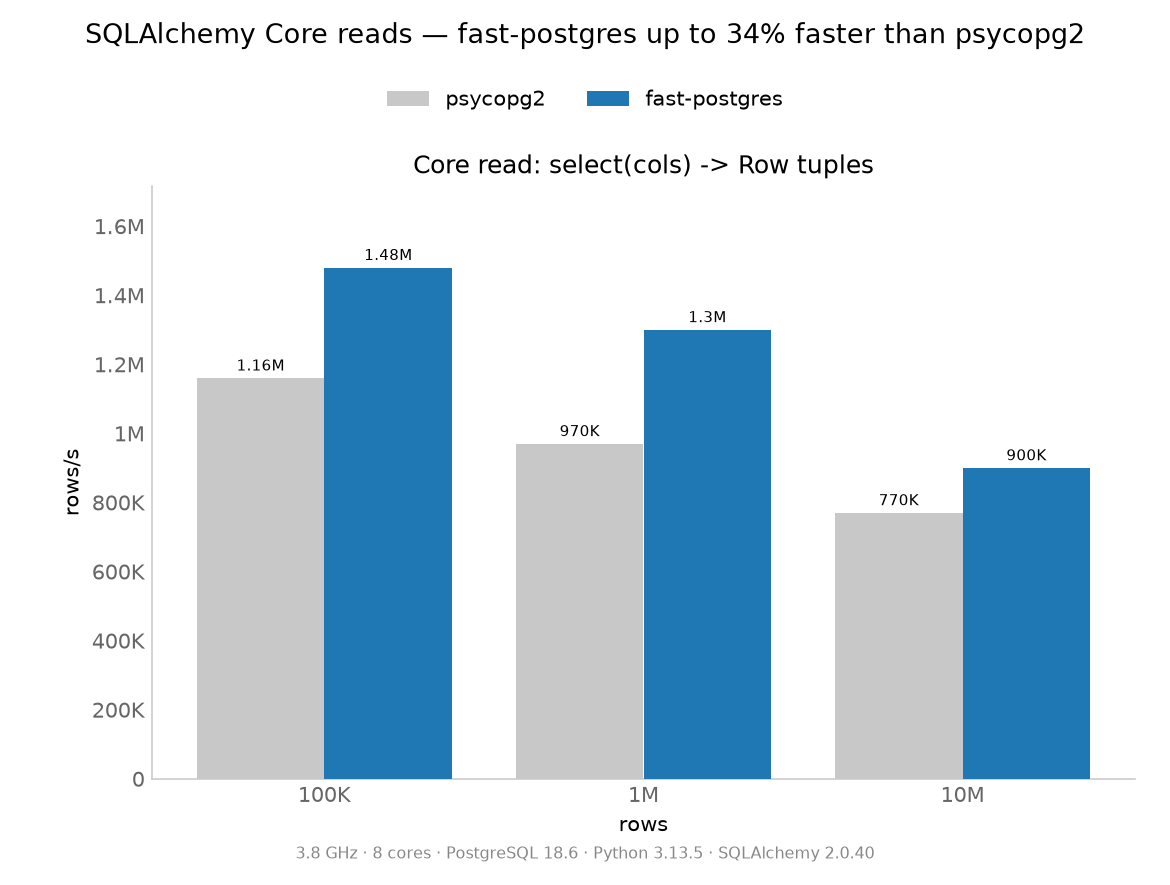
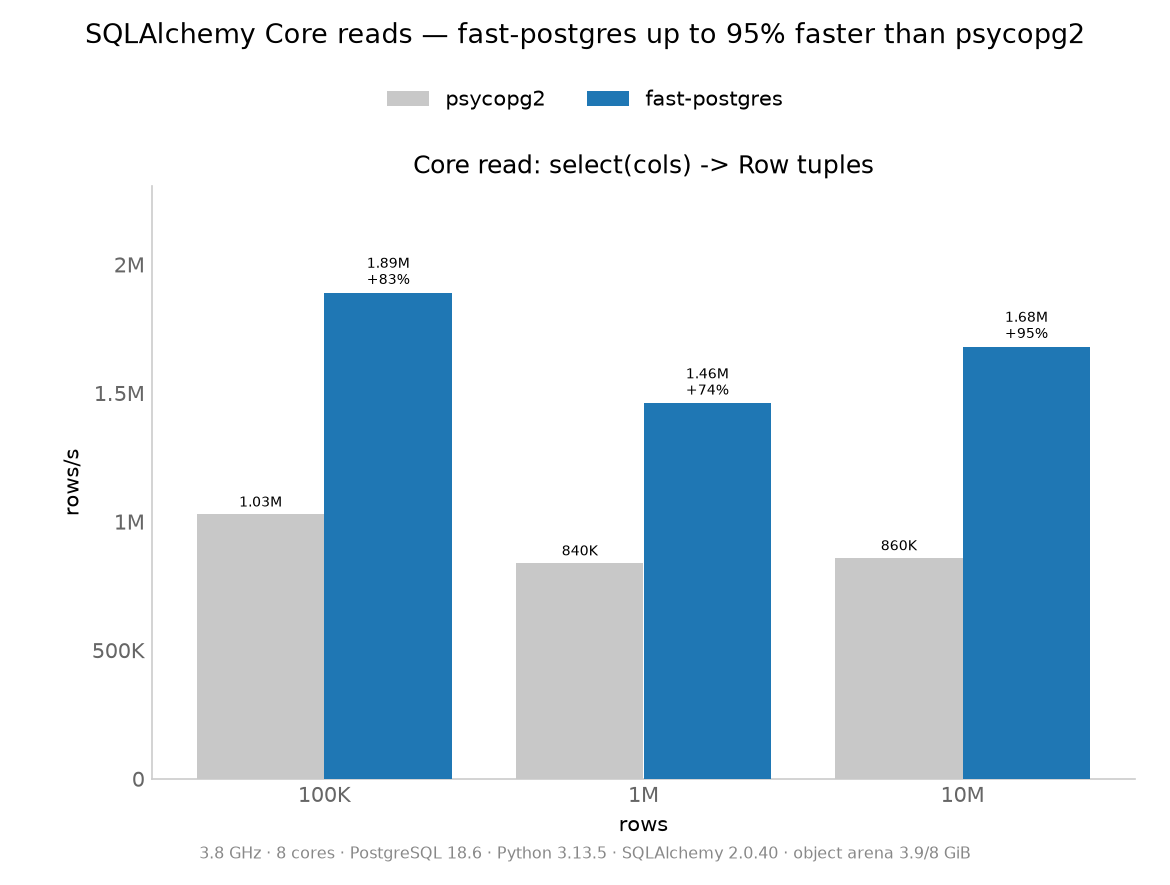
docs: the measured numbers, and the refreshed Core chart
The chart at 100K/1M/10M with one process per size and the arena sized from the
host: 1.03M -> 1.89M, 0.84M -> 1.46M, 0.86M -> 1.68M rows/s, so 74-96% ahead of
psycopg2 on CORE and 2-10% on ORM, where SQLAlchemy's hydration is ~4 us of a
~5.5 us row. The intro now says what the wire actually carries (FPROWS for rows,
FPCOLUMN for the column views) and the limits mention the arena's new default.

diff --git a/README.md b/README.md
@@ -2,20 +2,22 @@
 
 # FastPostgres
 
-PostgreSQL query results delivered through POSIX shared memory as columnar
-typed arrays, instead of the socket's text protocol. A background worker runs
-each read with an SPI cursor and publishes batches as `FPCOLUMN` payloads in
-`/dev/shm`; the client maps the segment and reads the columns in place. Writes,
-DDL and transactions keep using libpq. The format, its reader and its writer
-live in one header, `pg-extension/fastpostgres_shm.h`.
+PostgreSQL query results delivered through POSIX shared memory as typed arrays,
+instead of the socket's text protocol. A background worker runs each read with a
+portal and publishes every batch in `/dev/shm`: the result tuples as the executor
+laid them out (`FPROWS`, one memcpy per row) or, for the zero-copy column views,
+a columnar frame (`FPCOLUMN`). The client maps the segment and reads it in place.
+Writes, DDL and transactions keep using libpq. Both formats, their readers and
+their writer live in one header, `pg-extension/fastpostgres_shm.h`.
 
 ## Measured
 
 ![SQLAlchemy Core reads](assets/core-read.png)
 
-8-core container, PostgreSQL 18.6. Once rows become Python objects, the Core
-path lands 17–34% ahead of psycopg2 and the ORM 5–13%, because materialising
-and hydrating objects is allocation-bound.
+8-core container, PostgreSQL 18.6, 100K / 1M / 10M rows. The Core path lands
+74–96% ahead of psycopg2 and the gap widens with the load; the ORM lands 2–10%,
+because there SQLAlchemy's own hydration is ~4 µs of a ~5.5 µs row and no driver
+can move it.
 
 ## Usage
 
@@ -47,5 +49,7 @@ just charts        # benchmarks + charts
 Known limits: ring reads run in the worker's session, so they miss the calling
 connection's uncommitted writes (the driver is autocommit); `numeric` widens to
 `float8` on the wire; a ring serves one stream at a time, with at most
-`FASTPOSTGRES_SHM_POOL` (default 4) per process; `/dev/shm/<seg>` is mode 0600
-and the ring is an SQL-execution endpoint, so it is not for production.
+`FASTPOSTGRES_SHM_POOL` (default 4) per process; the client's object arena is
+sized to half the cgroup limit (8 GiB at most, `FASTPOSTGRES_OBJ_ARENA` to
+override) and is never returned to the OS; `/dev/shm/<seg>` is mode 0600 and the
+ring is an SQL-execution endpoint, so it is not for production.
